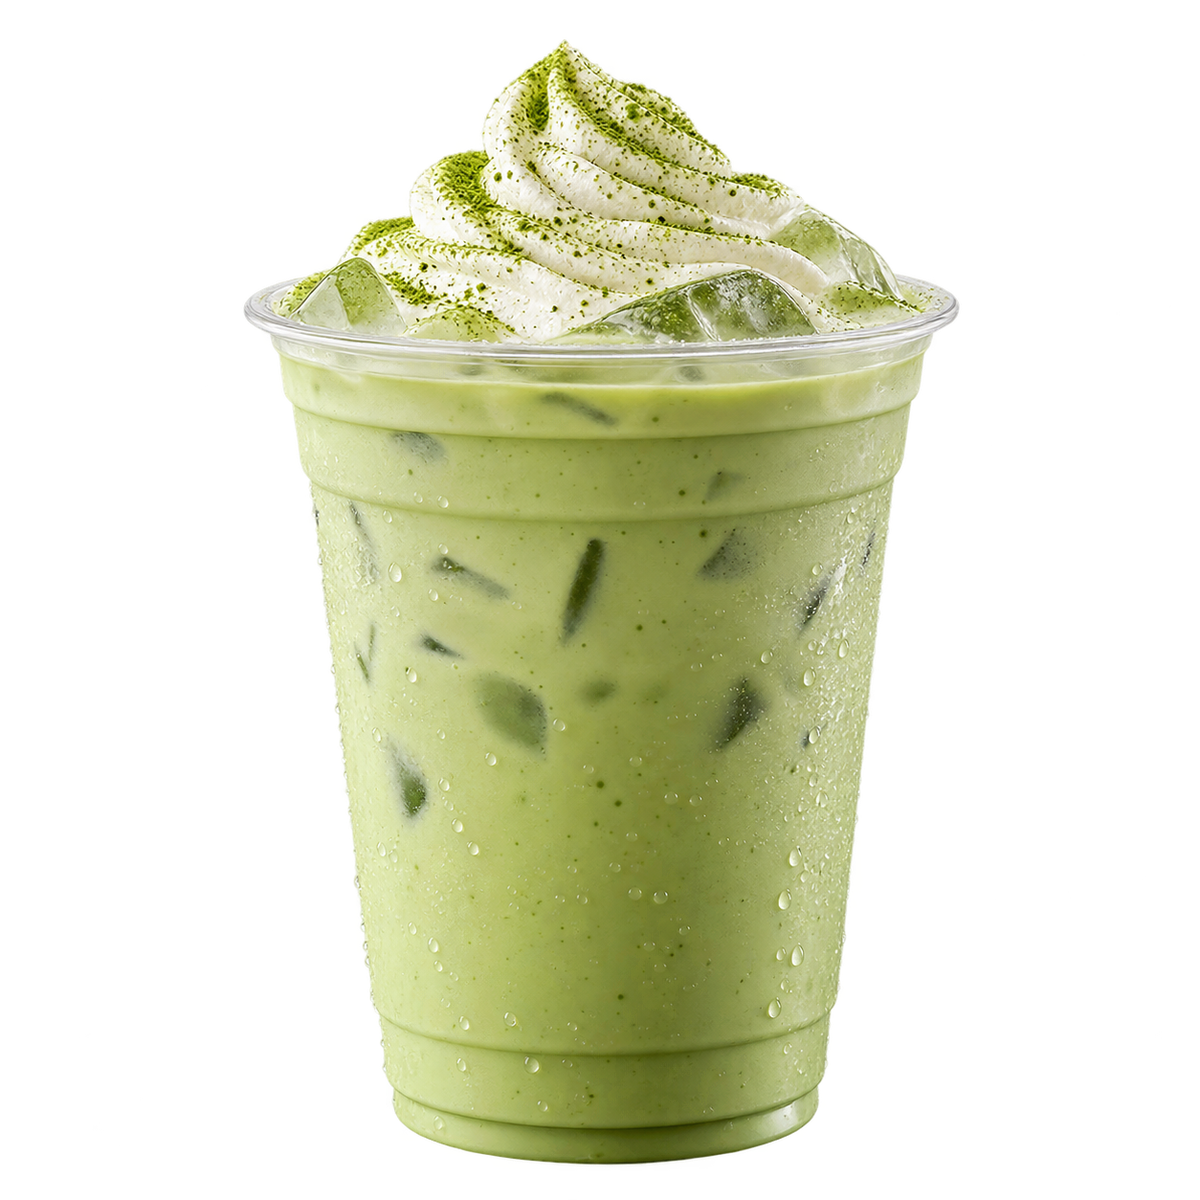
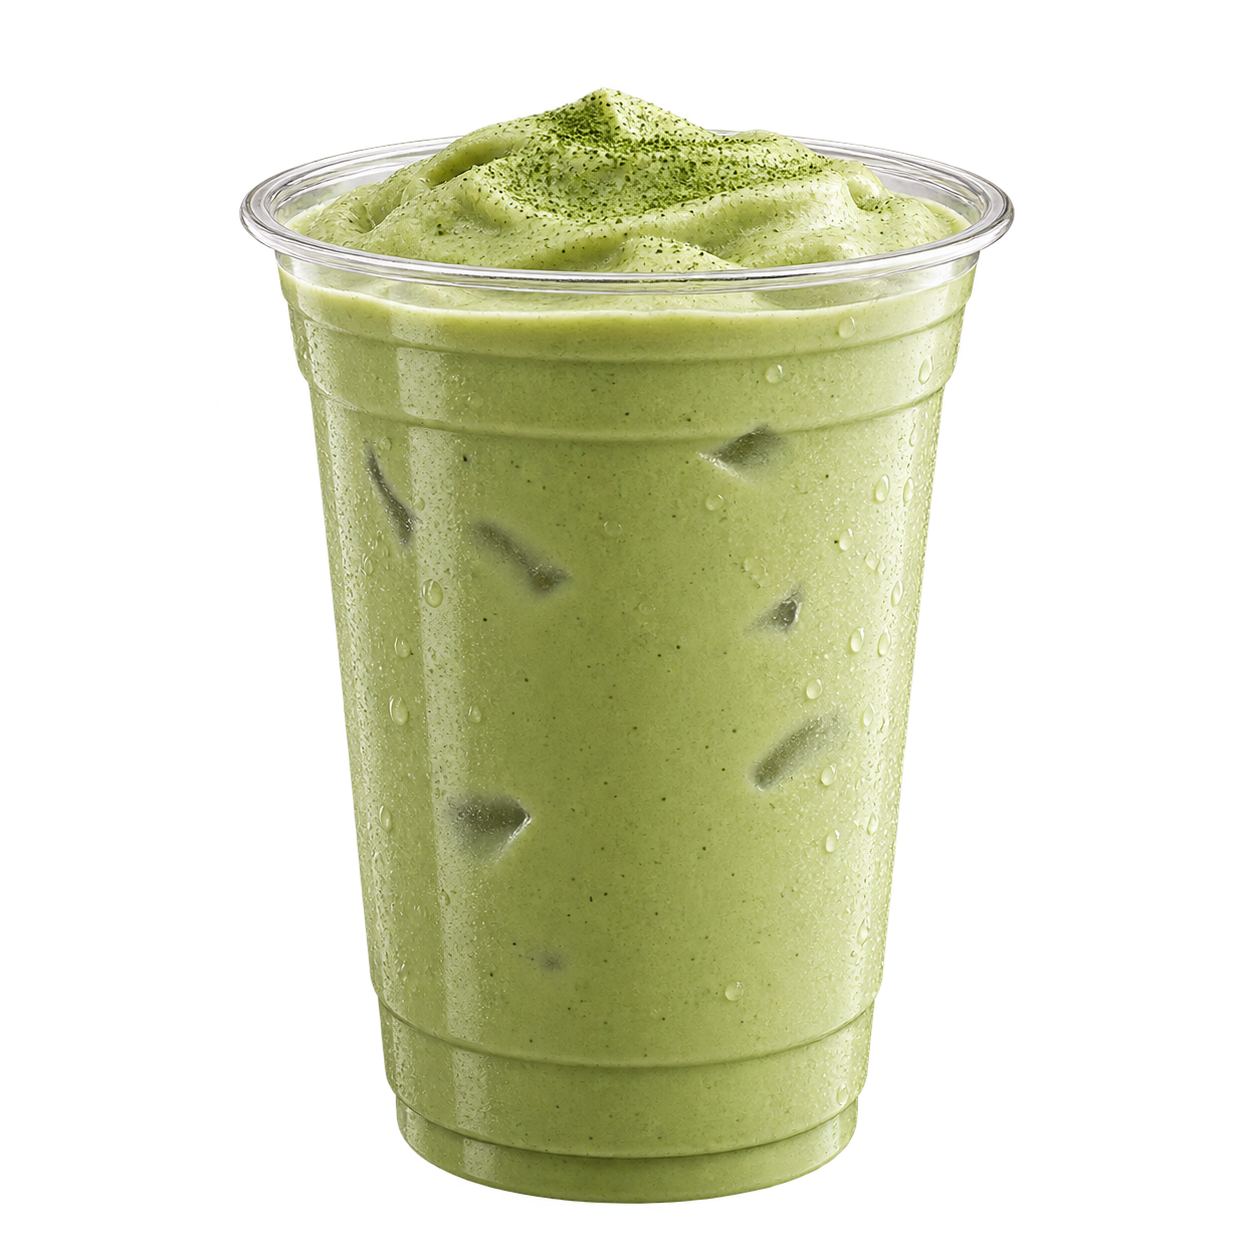
feat(carta): Cambio y añadiendo imagenes

diff --git a/src/data/menu/products.ts b/src/data/menu/products.ts
@@ -84,7 +84,7 @@ export const menuProducts: MenuProduct[] = [
       "Bebida a base de té verde y aloe vera.",
     price: 13.9,
     category: "tes-helados",
-    image: "/images/products/Carta/frutado.png",
+    image: "/images/products/Carta/frutado.webp",
     available: true,
     sourcePage: 1,
   },
@@ -97,7 +97,7 @@ export const menuProducts: MenuProduct[] = [
       "Bebida a base de té chai y aloe vera.",
     price: 13.9,
     category: "tes-helados",
-    image: "/images/products/Carta/chai.png",
+    image: "/images/products/Carta/chai.webp",
     available: true,
     sourcePage: 1,
   },
